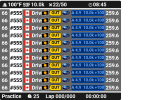
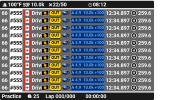
Added Tire Compound and Last Lap Time columns to Relative. Changed how the Width option works (now in pixels).

diff --git a/Plugin/SettingsControl.xaml b/Plugin/SettingsControl.xaml
@@ -29,7 +29,7 @@
              xmlns:xctk="http://schemas.xceed.com/wpf/xaml/toolkit"
              mc:Ignorable="d">
     <ScrollViewer>
-        <Grid Height="4900">
+        <Grid Height="5000">
             <Grid.ColumnDefinitions>
                 <ColumnDefinition Width="44*"/>
                 <ColumnDefinition Width="377*"/>
@@ -341,8 +341,8 @@
                         </StackPanel>
 
                         <StackPanel Orientation="Horizontal">
-                            <ui:TitledSlider HorizontalAlignment="Left" Width="400" Title="Width (%)" Maximum="100" Minimum="0" Value="{Binding Plugin.Modules[RelativeModule].Settings.Width, Mode=TwoWay, UpdateSourceTrigger=PropertyChanged}"
-                                ToolTip="Maximum number of visible rows ahead and behind the player"/>
+                            <ui:TitledSlider HorizontalAlignment="Left" Width="400" Title="Width" Maximum="475" Minimum="200" Value="{Binding Plugin.Modules[RelativeModule].Settings.WidthPixels, Mode=TwoWay, UpdateSourceTrigger=PropertyChanged}"
+                                ToolTip="Minimum width of the overlay in pixels. Actual width might be larger if selected data fields don't fit."/>
                             <ui:TitledSlider HorizontalAlignment="Left" Width="400" Title="Max Row Count (Ahead and Behind)" Maximum="5" Minimum="1" Value="{Binding Plugin.Modules[RelativeModule].Settings.MaxRows, Mode=TwoWay, UpdateSourceTrigger=PropertyChanged}"
                                 ToolTip="Maximum number of visible rows ahead and behind the player"/>
                         </StackPanel>
@@ -382,6 +382,20 @@
                             HorizontalAlignment="Left" Margin="0,0,4,8"
                             IsChecked="{Binding Plugin.Modules[RelativeModule].Settings.CarLogoVisible, Mode=TwoWay, UpdateSourceTrigger=PropertyChanged}">
                             Show car logo
+                        </styles:SHToggleCheckbox>
+
+                        <styles:SHToggleCheckbox 
+                            ToolTip="Show the driver's last lap time" 
+                            HorizontalAlignment="Left" Margin="0,0,4,8"
+                            IsChecked="{Binding Plugin.Modules[RelativeModule].Settings.LastLapTimeVisible, Mode=TwoWay, UpdateSourceTrigger=PropertyChanged}">
+                            Show Last Lap Time
+                        </styles:SHToggleCheckbox>
+
+                        <styles:SHToggleCheckbox 
+                            ToolTip="Show the driver's current tire compound" 
+                            HorizontalAlignment="Left" Margin="0,0,4,8"
+                            IsChecked="{Binding Plugin.Modules[RelativeModule].Settings.TireCompoundVisible, Mode=TwoWay, UpdateSourceTrigger=PropertyChanged}">
+                            Show Tire Compound
                         </styles:SHToggleCheckbox>
 
                         <styles:SHToggleCheckbox 

diff --git a/Overlays/benofficial2 - iRacing Relative/JavascriptExtensions/Relative.js b/Overlays/benofficial2 - iRacing Relative/JavascriptExtensions/Relative.js
@@ -310,14 +310,52 @@ function getRelativeGapToPlayer(index)
     return Math.min(999.9, Math.abs(gap).toFixed(1));
 }
 
+function getRelativeLastLapTime(index)
+{
+    let time;
+    if (index == 0)
+    {
+        time = $prop('benofficial2.Player.LastLapTime')
+    }
+    else if (g_UseSimHubProp)
+    {
+        const position = getopponentleaderboardposition_aheadbehind(index);
+        time = driverlastlap(position);
+    }
+    else
+    {
+        time = getRelativeProp(index, 'LastLapTime');
+    }
+    
+    if (isInvalidTime(time))
+        return '-:--.---'
+    
+    return toshorttime(time, 3, false, true)
+}
+
+function getRelativeTireCompound(index)
+{
+    if (index == 0)
+    {
+        return $prop('benofficial2.Player.TireCompound')
+    }
+    else
+    {
+        return getRelativeProp(index, 'TireCompound');
+    }
+}
+
 function getRelativeTextColor(index)
 {
-    if (!isRace()) return 'White';
+    if (!isRace()) 
+        return 'White';
 
     if (index == 0)
     {
         const highlight = isnull($prop('benofficial2.Relative.HighlightPlayerRow'), false)
-        if (highlight) return 'White'
+        if (highlight) 
+            return 'White'
+
         return '#FFEBAE00'
     }
 
@@ -335,7 +373,8 @@ function getRelativeTextColor(index)
     const playerPosition = getopponentleaderboardposition_aheadbehind(0);
     const playerLap = drivercurrentlaphighprecision(playerPosition);
 
-    if (playerLap <= 0 || lap <= 0) return 'White';
+    if (playerLap <= 0 || lap <= 0) 
+        return 'White';
 
     const red = '#FFFF6345';
     const blue = '#43B7EA';
@@ -345,13 +384,19 @@ function getRelativeTextColor(index)
 
     if (index < 0)
     {
-        if (deltaLap < -0.75) return red;
-        if (deltaLap > 0.25) return blue;
+        if (deltaLap < -0.75) 
+            return red;
+
+        if (deltaLap > 0.25) 
+            return blue;
     }
     else if (index > 0)
     {
-        if (deltaLap < -0.25) return red;
-        if (deltaLap > 0.75) return blue;
+        if (deltaLap < -0.25) 
+            return red;
+
+        if (deltaLap > 0.75) 
+            return blue;
     }
     return white;
 }

diff --git a/Overlays/benofficial2 - iRacing Relative/JavascriptExtensions/Common.js b/Overlays/benofficial2 - iRacing Relative/JavascriptExtensions/Common.js
@@ -71,6 +71,11 @@ function isOffline()
     return isnull($prop('benofficial2.Session.Offline'), false);
 }
 
+function isInvalidTime(time)
+{
+    return time == null || time == '' || time == '00:00:00' || time == '00:00.000' || time == '00:00.0000000';
+}
+
 function formatSecondsToTimecode(totalSeconds) 
 {
     if (totalSeconds < 0 || totalSeconds > 172800)

diff --git a/Plugin/Modules/Relative.cs b/Plugin/Modules/Relative.cs
@@ -29,7 +29,7 @@ namespace benofficial2.Plugin
     public class RelativeSettings : ModuleSettings
     {
         public bool HideInReplay { get; set; } = true;
-        public int Width { get; set; } = 80;
+        public int WidthPixels { get; set; } = 420;
         public int MaxRows { get; set; } = 4;
         public bool HeaderVisible { get; set; } = true;
         public int HeaderOpacity { get; set; } = 90;
@@ -39,9 +39,14 @@ namespace benofficial2.Plugin
         public bool SafetyRatingVisible { get; set; } = true;
         public bool IRatingVisible { get; set; } = true;
         public bool IRatingChangeVisible { get; set; } = false;
+        public bool LastLapTimeVisible { get; set; } = false;
+        public bool TireCompoundVisible { get; set; } = true;
         public int AlternateRowBackgroundColor { get; set; } = 33;
         public bool HighlightPlayerRow { get; set; } = true;
         public int BackgroundOpacity { get; set; } = 60;
+
+        // Deprecated pre-4.0
+        public int Width { get; set; } = 80;
     }
 
     public class RelativeRow
@@ -63,6 +68,7 @@ namespace benofficial2.Plugin
         public double CurrentLapHighPrecision { get; set; } = 0;
         public TimeSpan LastLapTime { get; set; } = TimeSpan.Zero;
         public int SessionFlags { get; set; } = 0;
+        public string TireCompound { get; set; } = string.Empty;
     }
 
     public class RelativeAhead
@@ -108,7 +114,7 @@ namespace benofficial2.Plugin
 
             Settings = plugin.ReadCommonSettings<RelativeSettings>("RelativeSettings", () => new RelativeSettings());
             plugin.AttachDelegate(name: "Relative.HideInReplay", valueProvider: () => Settings.HideInReplay);
-            plugin.AttachDelegate(name: "Relative.Width", valueProvider: () => Settings.Width);
+            plugin.AttachDelegate(name: "Relative.Width", valueProvider: () => Settings.WidthPixels);
             plugin.AttachDelegate(name: "Relative.MaxRows", valueProvider: () => Settings.MaxRows);
             plugin.AttachDelegate(name: "Relative.HeaderVisible", valueProvider: () => Settings.HeaderVisible);
             plugin.AttachDelegate(name: "Relative.HeaderOpacity", valueProvider: () => Settings.HeaderOpacity);
@@ -118,6 +124,8 @@ namespace benofficial2.Plugin
             plugin.AttachDelegate(name: "Relative.SafetyRatingVisible", valueProvider: () => Settings.SafetyRatingVisible);
             plugin.AttachDelegate(name: "Relative.iRatingVisible", valueProvider: () => Settings.IRatingVisible);
             plugin.AttachDelegate(name: "Relative.iRatingChangeVisible", valueProvider: () => Settings.IRatingChangeVisible);
+            plugin.AttachDelegate(name: "Relative.LastLapTimeVisible", valueProvider: () => Settings.LastLapTimeVisible);
+            plugin.AttachDelegate(name: "Relative.TireCompoundVisible", valueProvider: () => Settings.TireCompoundVisible);
             plugin.AttachDelegate(name: "Relative.AlternateRowBackgroundColor", valueProvider: () => Settings.AlternateRowBackgroundColor);
             plugin.AttachDelegate(name: "Relative.HighlightPlayerRow", valueProvider: () => Settings.HighlightPlayerRow);
             plugin.AttachDelegate(name: "Relative.BackgroundOpacity", valueProvider: () => Settings.BackgroundOpacity);
@@ -148,6 +156,7 @@ namespace benofficial2.Plugin
                 plugin.AttachDelegate(name: $"Relative.{aheadBehind}{rowIdx:00}.CurrentLapHighPrecision", valueProvider: () => row.CurrentLapHighPrecision);
                 plugin.AttachDelegate(name: $"Relative.{aheadBehind}{rowIdx:00}.LastLapTime", valueProvider: () => row.LastLapTime);
                 plugin.AttachDelegate(name: $"Relative.{aheadBehind}{rowIdx:00}.SessionFlags", valueProvider: () => row.SessionFlags);
+                plugin.AttachDelegate(name: $"Relative.{aheadBehind}{rowIdx:00}.TireCompound", valueProvider: () => row.TireCompound);
             }
         }
 
@@ -204,6 +213,7 @@ namespace benofficial2.Plugin
                 row.CurrentLapHighPrecision = driver.CurrentLapHighPrecisionRaw;
                 row.LastLapTime = driver.LastLapTime;
                 row.SessionFlags = driver.SessionFlags;
+                row.TireCompound = _driverModule.GetTireCompoundLetter(driver);
             }
         }
 

diff --git a/Plugin/Modules/Driver.cs b/Plugin/Modules/Driver.cs
@@ -152,6 +152,7 @@ namespace benofficial2.Plugin
         public double GapToClassLeader { get; set; } = 0.0;
         public double RelativeGapToPlayer { get; set; } = 0.0;
         public double EstTime { get; set; } = 0.0;
+        public int TireCompoundIdx { get; set; } = -1;
     }
 
     public class PlayerDriver
@@ -668,6 +669,7 @@ namespace benofficial2.Plugin
                 RawDataHelper.TryGetTelemetryData<int>(ref data, out int lapCompleted, "CarIdxLapCompleted", carIdx);
                 RawDataHelper.TryGetTelemetryData<float>(ref data, out float lapDistPct, "CarIdxLapDistPct", carIdx);
                 RawDataHelper.TryGetTelemetryData<float>(ref data, out float estTime, "CarIdxEstTime", carIdx);
+                RawDataHelper.TryGetTelemetryData<int>(ref data, out int tireCompoundIdx, "CarIdxTireCompound", carIdx);
 
                 if (!Drivers.TryGetValue(carNumber, out Driver driver))
                 {
@@ -705,6 +707,7 @@ namespace benofficial2.Plugin
                 driver.LapsCompleted = lapCompleted;
                 driver.TrackPositionPercent = lapDistPct;
                 driver.EstTime = estTime;
+                driver.TireCompoundIdx = tireCompoundIdx;
 
                 if (driver.Lap > -1 && driver.TrackPositionPercent > -Constants.DistanceEpsilon)
                 {
@@ -941,5 +944,19 @@ namespace benofficial2.Plugin
             return "#" + input.ToUpper();
         }
 
+        public string GetTireCompoundLetter(Driver driver)
+        {
+            if (_carModule.TireCompounds == null)
+                return string.Empty;
+
+            if (!_carModule.TireCompounds.TryGetValue(driver.TireCompoundIdx, out string tireCompoundName))
+                return string.Empty;
+
+            if (tireCompoundName == null || tireCompoundName.Length == 0)
+                return string.Empty;
+
+            // Return the first letter of the compound name as a short representation
+            return tireCompoundName[0].ToString();
+        }
     }
 }

diff --git a/Plugin/Modules/Standings.cs b/Plugin/Modules/Standings.cs
@@ -426,7 +426,8 @@ namespace benofficial2.Plugin
                         row.StintLap = driver.StintLap;
                         row.LapsToClassLeader = driver.LapsToClassLeader;
                         row.GapToClassLeader = driver.GapToClassLeader;
-                        (row.TireCompound, row.TireCompoundVisible) = GetTireCompound(ref data, driver.CarIdx);
+                        row.TireCompound = _driverModule.GetTireCompoundLetter(driver);
+                        row.TireCompoundVisible = row.TireCompound.Length > 0;
                         row.BestLapTime = driver.BestLapTime;
                         row.LastLapTime = driver.LastLapTime;
                         row.JokerLapsComplete = driver.JokerLapsCompleted;
@@ -744,24 +745,6 @@ namespace benofficial2.Plugin
             }
 
             return (null, -1);
-        }
-
-        public (string compound, bool visible) GetTireCompound(ref GameData data, int carIdx)
-        {
-            if (_carModule.TireCompounds == null)
-                return ("", false);
-
-            if (!RawDataHelper.TryGetTelemetryData<int>(ref data, out int tireCompoundIdx, "CarIdxTireCompound", carIdx))
-                return ("", false);
-
-            if (!_carModule.TireCompounds.TryGetValue(tireCompoundIdx, out string tireCompoundName))
-                return ("", false);
-
-            if (tireCompoundName == null || tireCompoundName.Length == 0)
-                return ("", false);
-
-            // Return the first letter of the compound name as a short representation
-            return (tireCompoundName[0].ToString(), true);
         }
 
         public bool IsValidRow(Driver driver)
